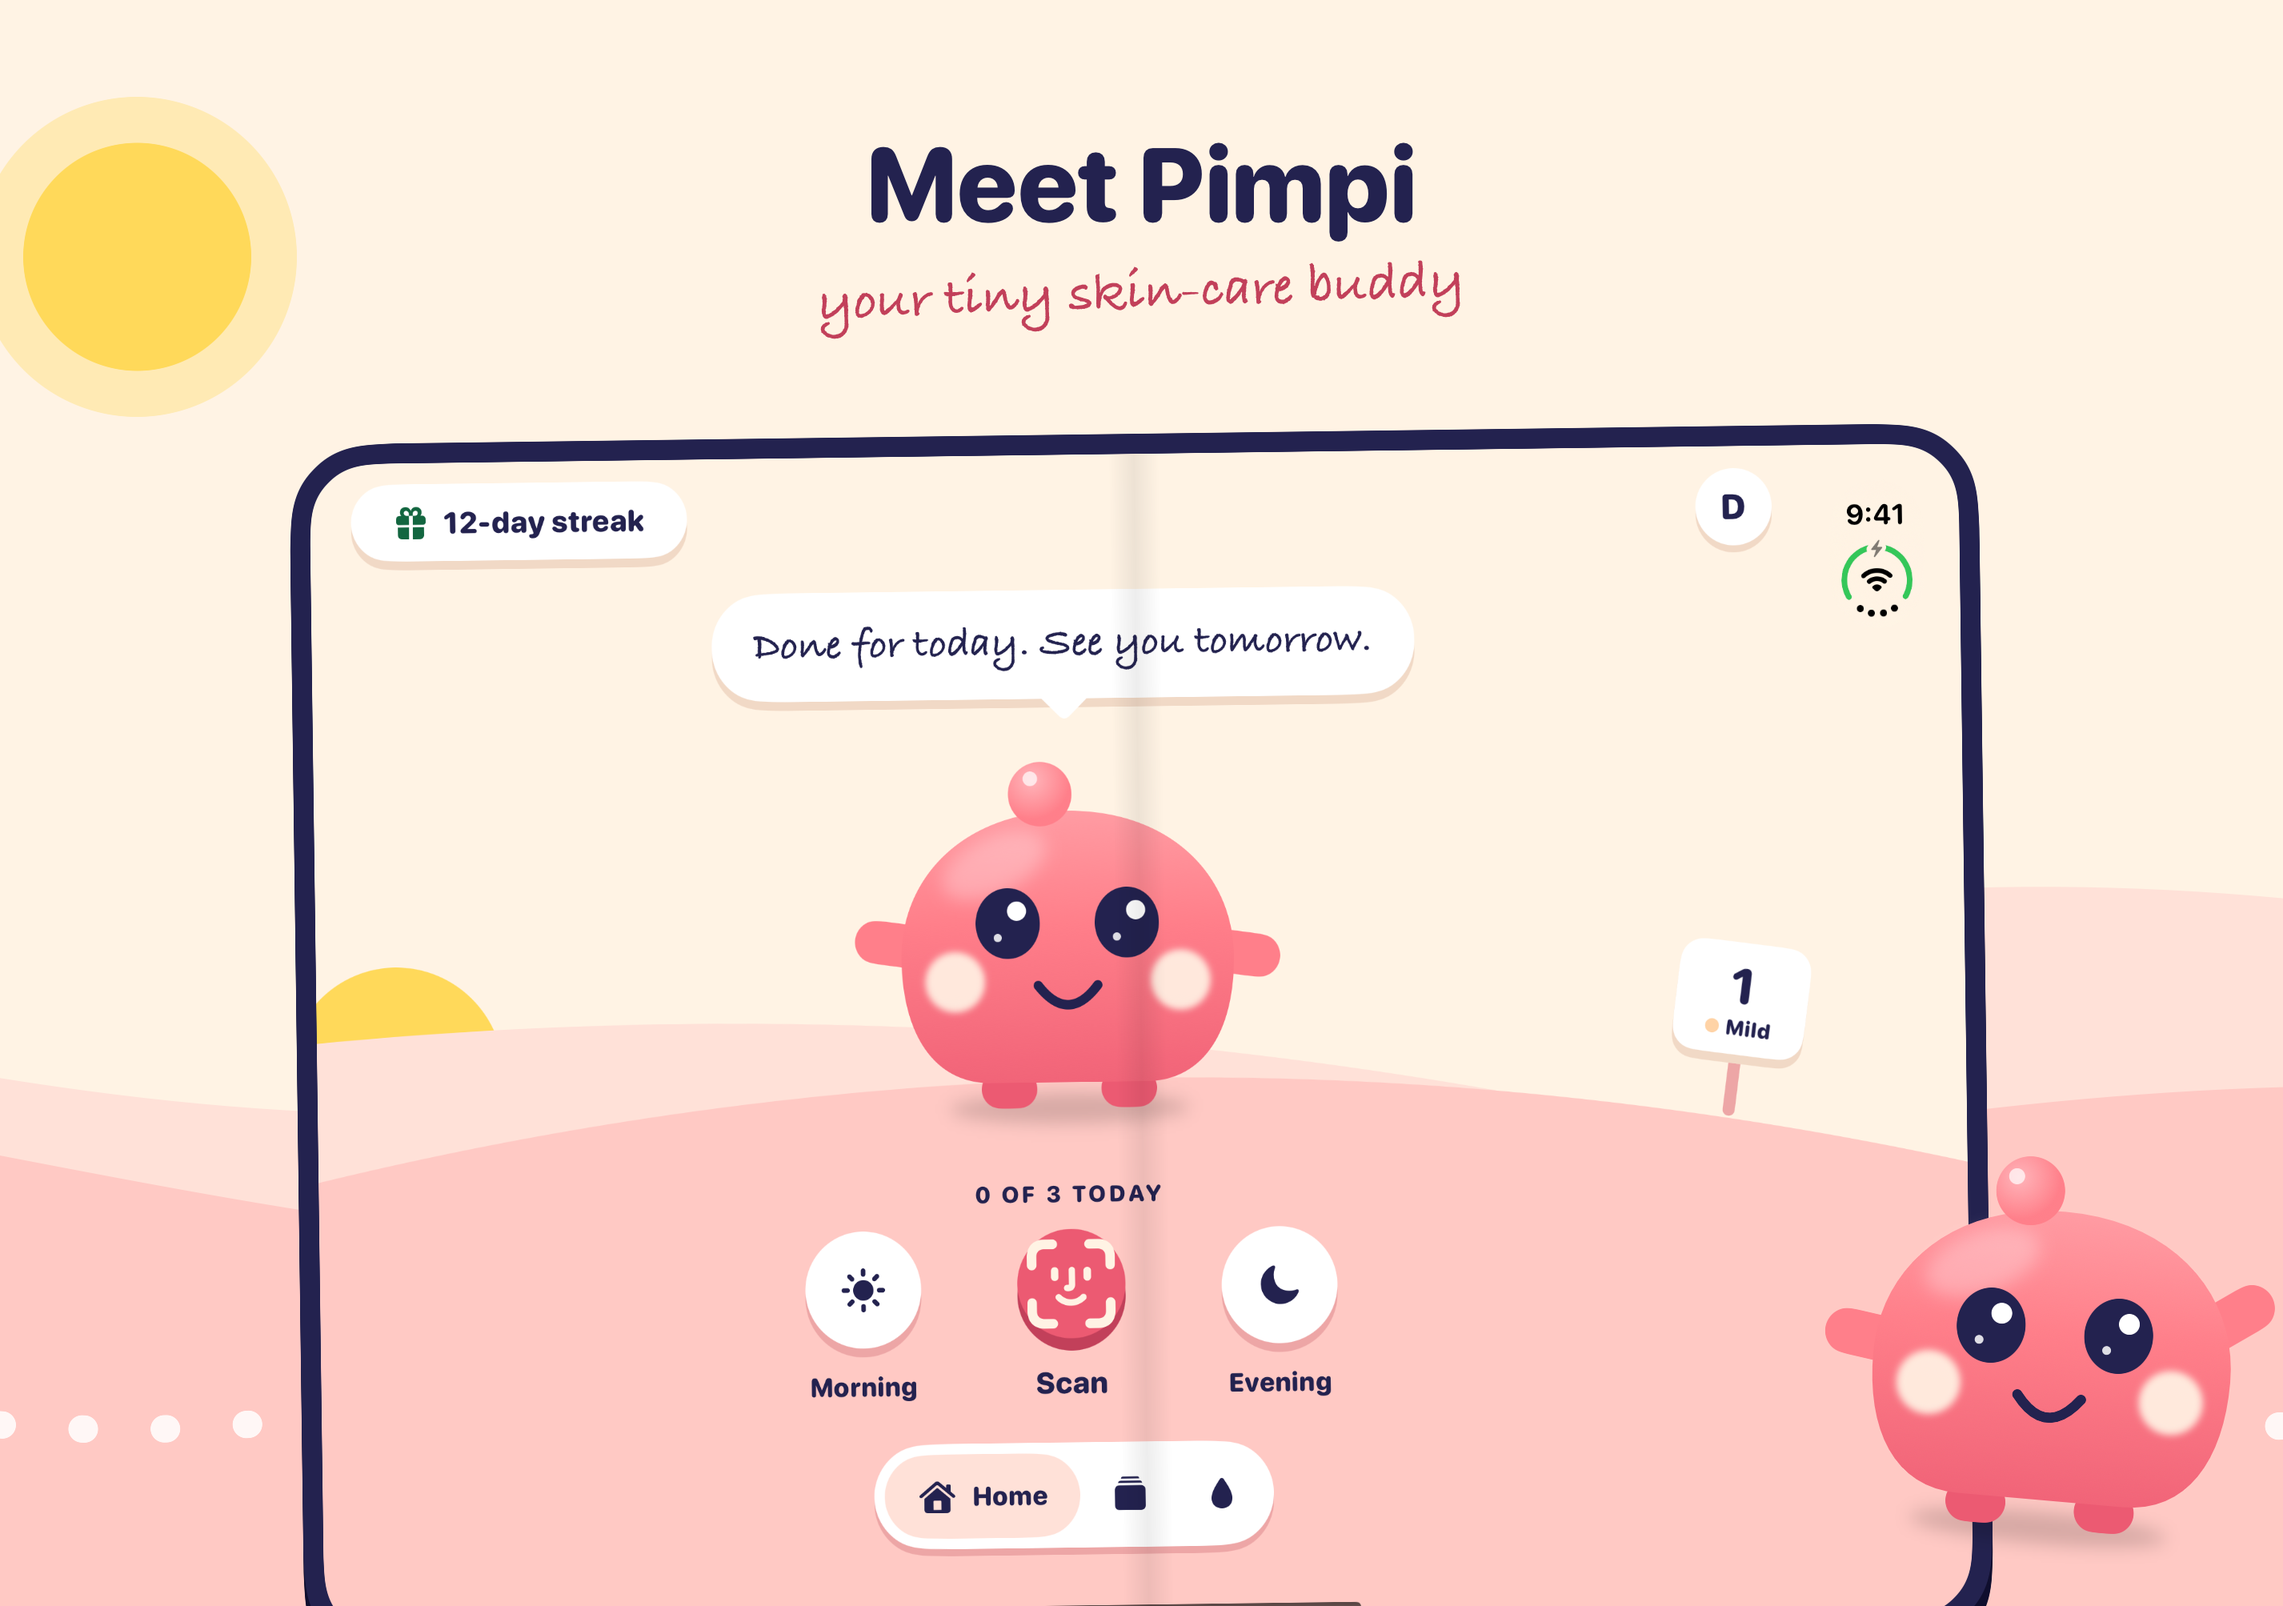
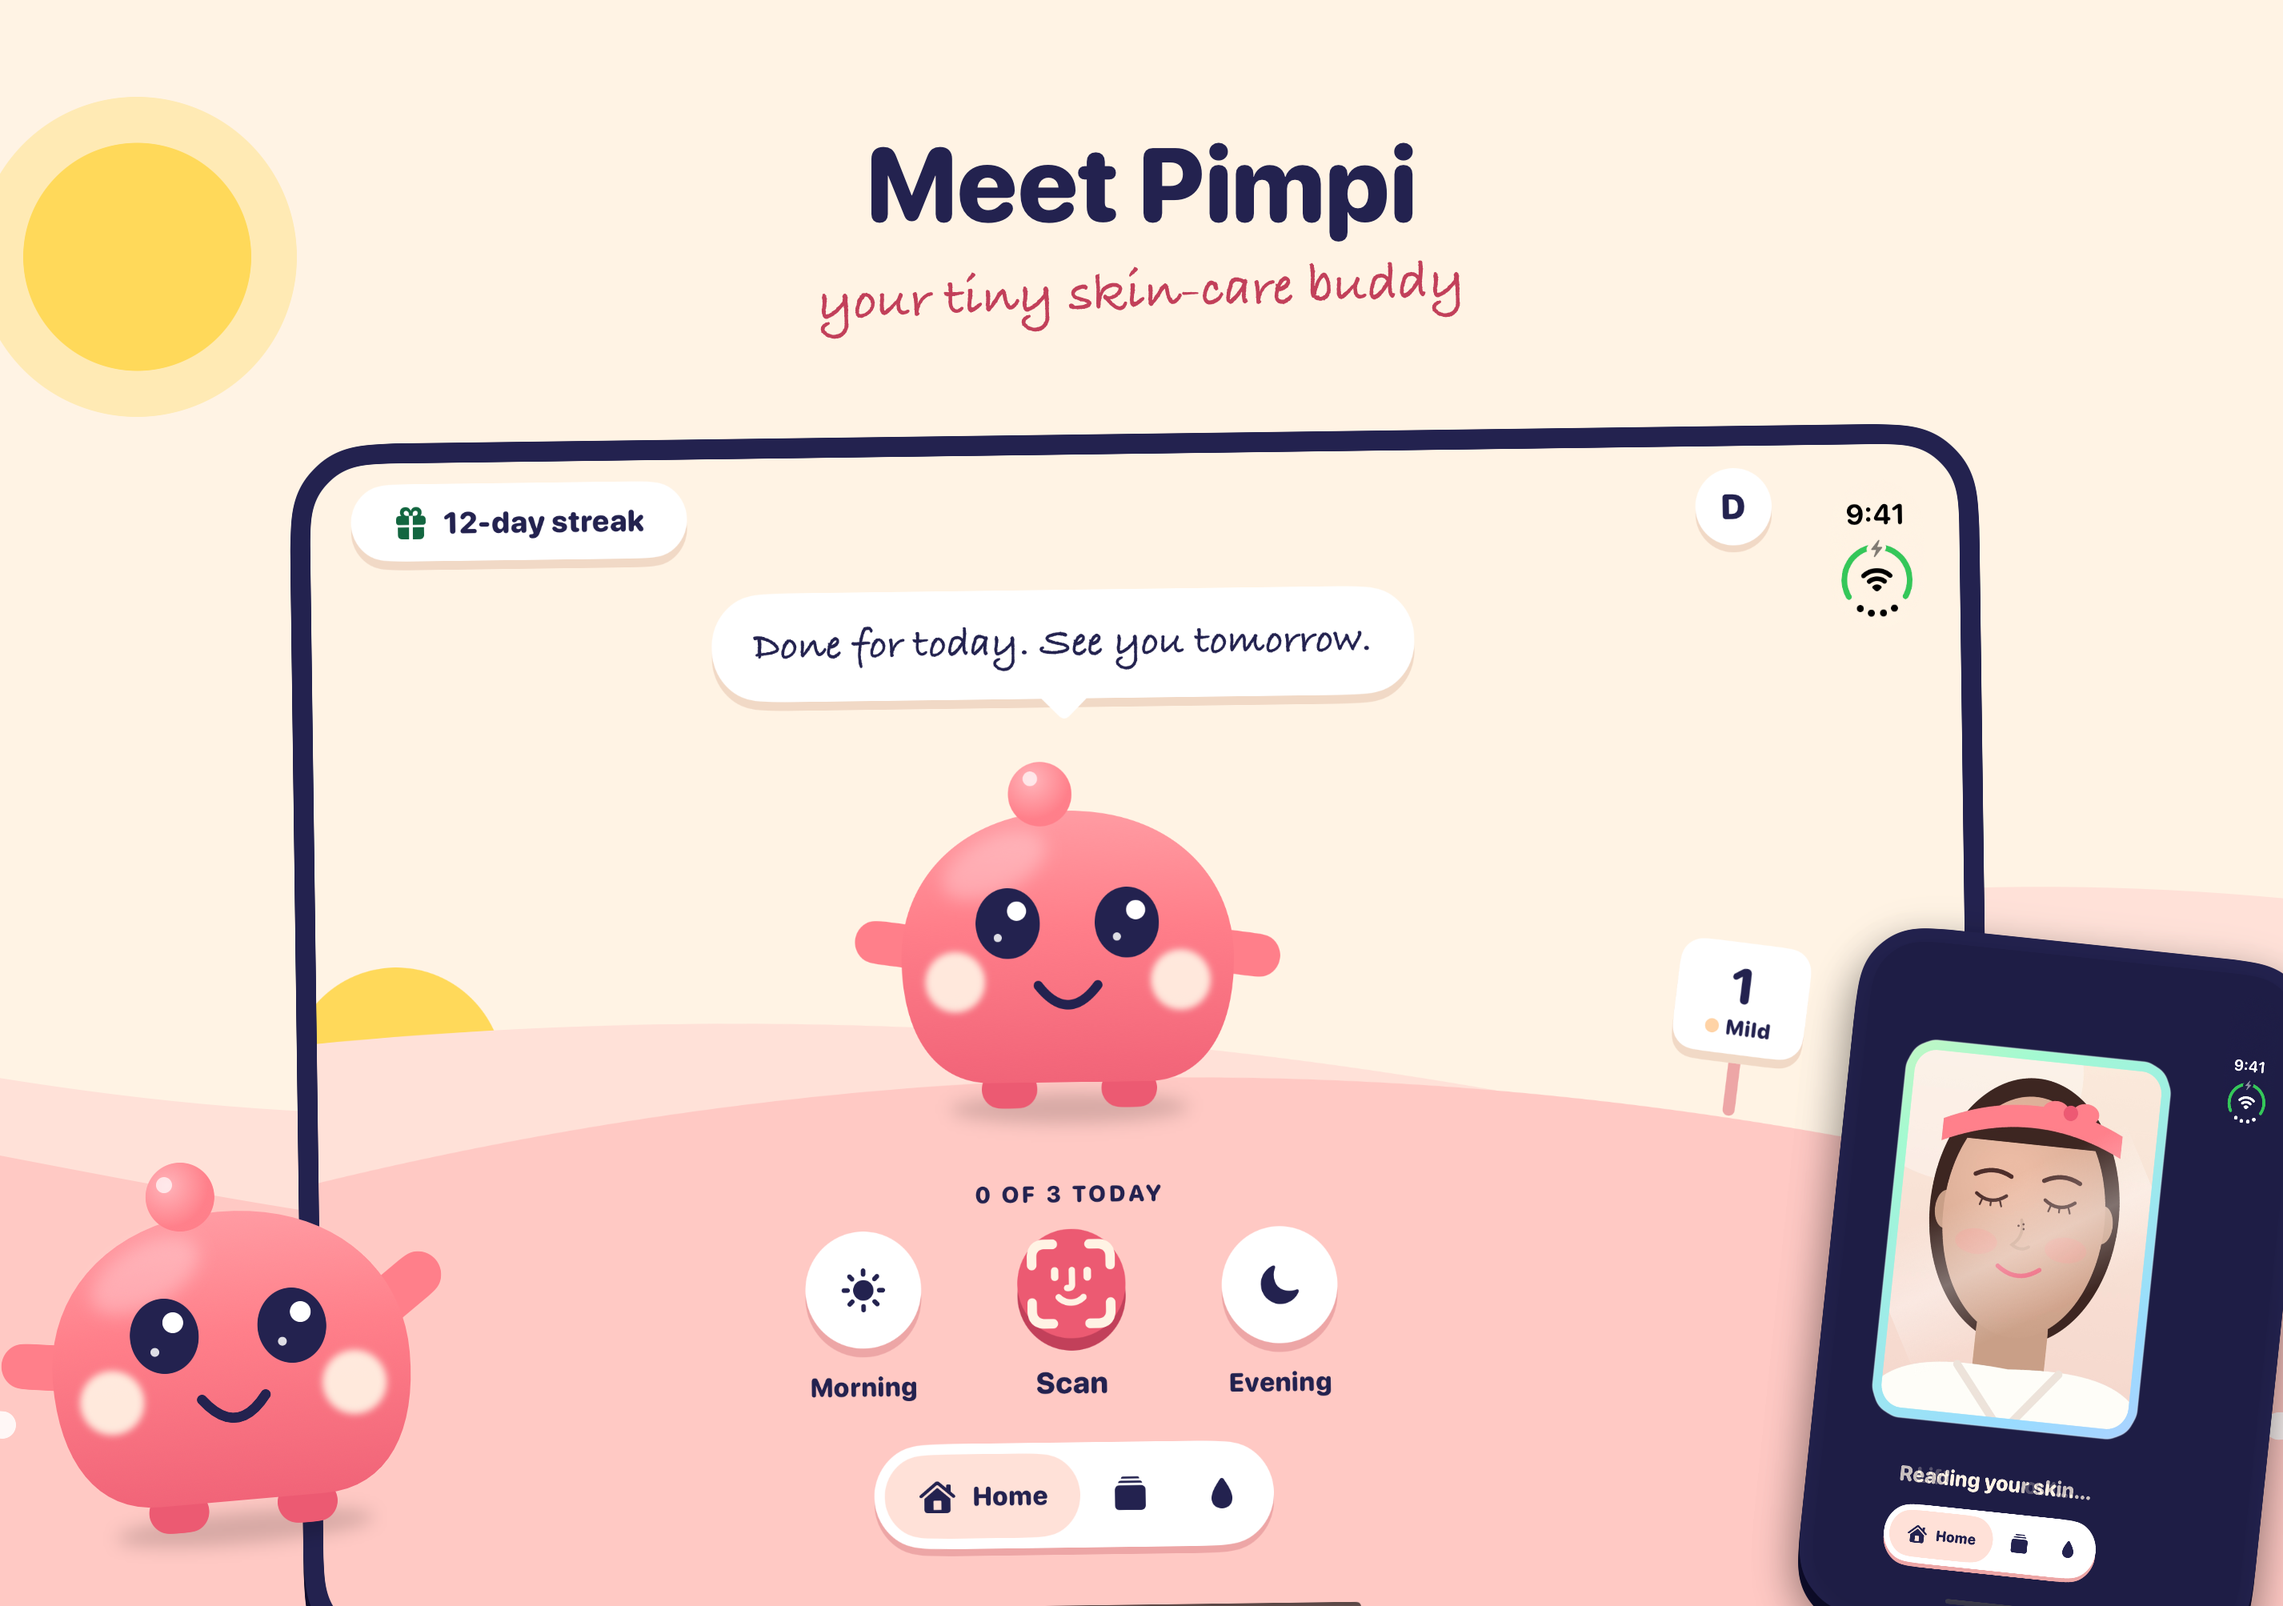
feat: Duo inner screenshots show the folded phone's front display beside the open one; no crease
Adds a 'Folded or open' shot; the home and streak shots pair the open display with the folded phone.

Changed region(s): [[0.7799, 0.5561, 1.0, 1.0], [0.0, 0.7105, 0.2184, 0.9885]]

diff --git a/Skinalyze/Shared/StoreShotArt.swift b/Skinalyze/Shared/StoreShotArt.swift
@@ -14,6 +14,8 @@ struct StoreShotArt: View {
     let index: Int
     let canvas: StoreCanvas
     let screen: UIImage
+    /// iPhone Duo: the same app on the folded phone's front display, shown beside the open one.
+    var companion: UIImage?
 
     var body: some View {
         let size = canvas.points
@@ -35,6 +37,7 @@ struct StoreShotArt: View {
                 .frame(width: layout.phone.width, height: layout.phone.height)
                 .rotationEffect(.degrees(canvas == .duoInner ? shot.tilt * 0.3 : shot.tilt))
                 .offset(x: layout.phone.minX, y: layout.phone.minY)
+            if let companion { folded(companion, sky: sky, layout: layout) }
             if let sticker = shot.sticker, canvas.showsStickers { stickerView(sticker, layout: layout) }
             if !shot.pimpi.isBehindPhone { pimpi(layout: layout) }
         }
@@ -44,6 +47,18 @@ struct StoreShotArt: View {
     }
 
     // MARK: Pieces
+
+    /// The closed phone, front display on, standing in front of the open one's corner.
+    private func folded(_ image: UIImage, sky: StoreSky, layout: StoreLayout) -> some View {
+        let width = layout.size.width * 0.2
+        let height = width * image.size.height / image.size.width + width * 0.09
+        let left = !shot.pimpi.isLeft
+        return StorePhone(screen: image, kind: .plain, sky: sky)
+            .frame(width: width, height: height)
+            .shadow(color: .black.opacity(0.22), radius: width * 0.05, y: width * 0.03)
+            .rotationEffect(.degrees(left ? -6 : 6))
+            .position(x: layout.size.width * (left ? 0.1 : 0.9), y: layout.size.height - height / 2 + height * 0.06)
+    }
 
     private func headline(sky: StoreSky, layout: StoreLayout) -> some View {
         VStack(spacing: layout.headlineSize * 0.12) {
@@ -142,7 +157,9 @@ struct StoreShotArt: View {
                 let look = shot.isNight ? "dark" : "light"
                 let path = "\(source)/\(canvas.device)/\(look)/\(shot.screen).png"
                 guard let screen = UIImage(contentsOfFile: path) else { continue }
-                let renderer = ImageRenderer(content: StoreShotArt(shot: shot, index: index, canvas: canvas, screen: screen))
+                let companion = shot.companion.flatMap { UIImage(contentsOfFile: "\(source)/duo-outer/\(look)/\($0).png") }
+                let renderer = ImageRenderer(content: StoreShotArt(shot: shot, index: index, canvas: canvas, screen: screen,
+                                                                   companion: canvas == .duoInner ? companion : nil))
                 renderer.scale = canvas.pixels.width / canvas.points.width
                 renderer.isOpaque = true
                 let dir = out.appendingPathComponent(canvas.rawValue)
@@ -187,6 +204,8 @@ struct StoreShot {
     var pimpi = PimpiSpot()
     var sticker: Sticker?
     var tilt: Double = 0
+    /// iPhone Duo inner display: the folded phone's front display beside it (a screen captured on the outer display).
+    var companion: String?
 
     var isNight: Bool { time >= 1 }
     /// Where the sun sits across the sky.
@@ -223,8 +242,14 @@ struct StoreShot {
                       mood: .sleepy, pimpi: PimpiSpot(isLeft: false), tilt: -2.5),
         ]
         if canvas == .duoInner {
-            // The inner display: the screens where its two panes matter most.
-            shots = shots.filter { ["home", "result-3d", "compare", "streaks", "school", "ob-promise"].contains($0.screen) }
+            // The inner display: the screens where its room matters most, and the folded phone beside it on some.
+            shots = shots.filter { ["home", "result-3d", "compare", "streaks", "ob-promise"].contains($0.screen) }
+            shots[0].companion = "scan"
+            shots[0].pimpi.isLeft = true
+            let fits = StoreShot(screen: "school", headline: "Folded or open", line: "Pimpi fits every screen", time: 0.2,
+                                 mood: .excited, pimpi: PimpiSpot(isLeft: false), tilt: -2.5, companion: "home")
+            shots.insert(fits, at: 1)
+            shots[4].companion = "streaks" // [home, folded or open, result-3d, compare, streaks, promise]
         }
         return shots
     }
@@ -419,12 +444,6 @@ struct StorePhone: View {
                     Capsule().fill(.black)
                         .frame(width: screenSize.width * 0.31, height: screenSize.width * 0.092)
                         .padding(.top, bezel + screenSize.width * 0.027)
-                }
-                if kind == .unfolded {
-                    // The fold: a soft crease down the middle.
-                    LinearGradient(colors: [.clear, .black.opacity(0.07), .clear], startPoint: .leading, endPoint: .trailing)
-                        .frame(width: w * 0.03, height: screenSize.height)
-                        .padding(.top, bezel)
                 }
             }
         }

diff --git a/docs/appstore/README.md b/docs/appstore/README.md
@@ -24,7 +24,9 @@ Captions (effort and fun only; no medical words, checked by `scripts/lint_copy.p
 7. Two-minute Skin School: *learn a little, earn a little*
 8. Private by default: *your photos stay yours*
 
-The inner display uses 1, 3, 4, 6, 7 and 8 (Skin School shows two columns there; the promise splits around Pimpi).
+The inner display uses 1, 3, 4, 6 and 8, plus **Folded or open**: *Pimpi fits every screen* (Skin School in two
+columns). On three of them the folded phone stands beside the open one, showing the same app on its front display
+(screens captured on the outer display). The open phone is drawn without a crease.
 
 The face in the scans is the debug demo data's illustrated portrait (`Skinalyze/Shared/DemoPortrait.swift`), never
 a real person's photo. The 3D view in shot 3 is the Simulator's stand-in mesh; a capture from a device with
